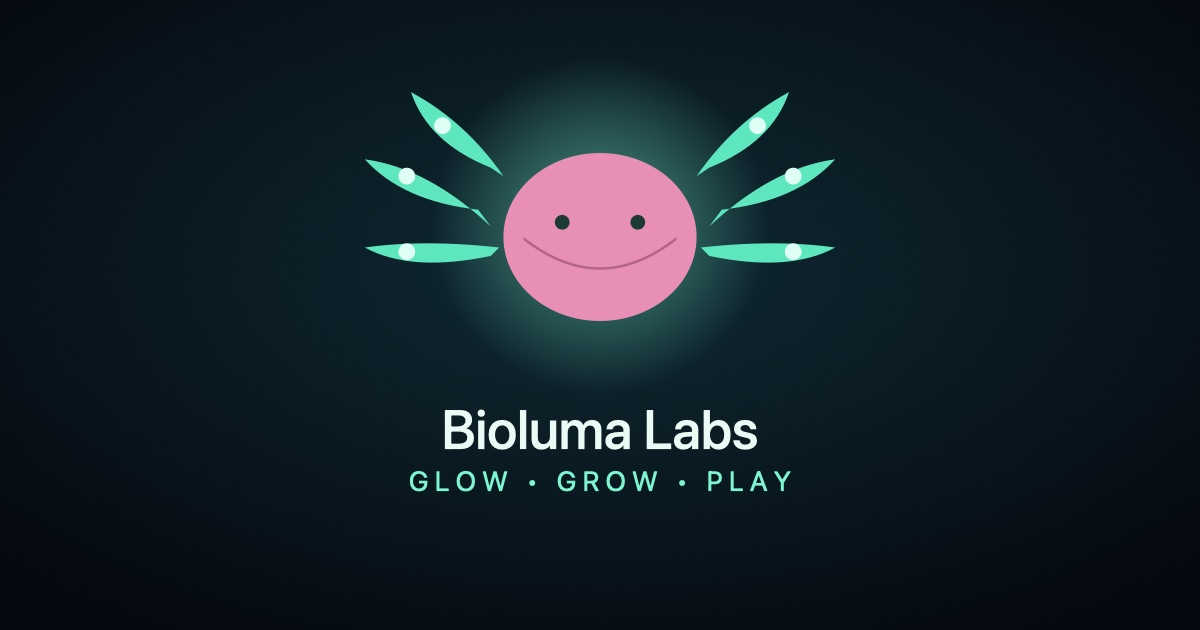
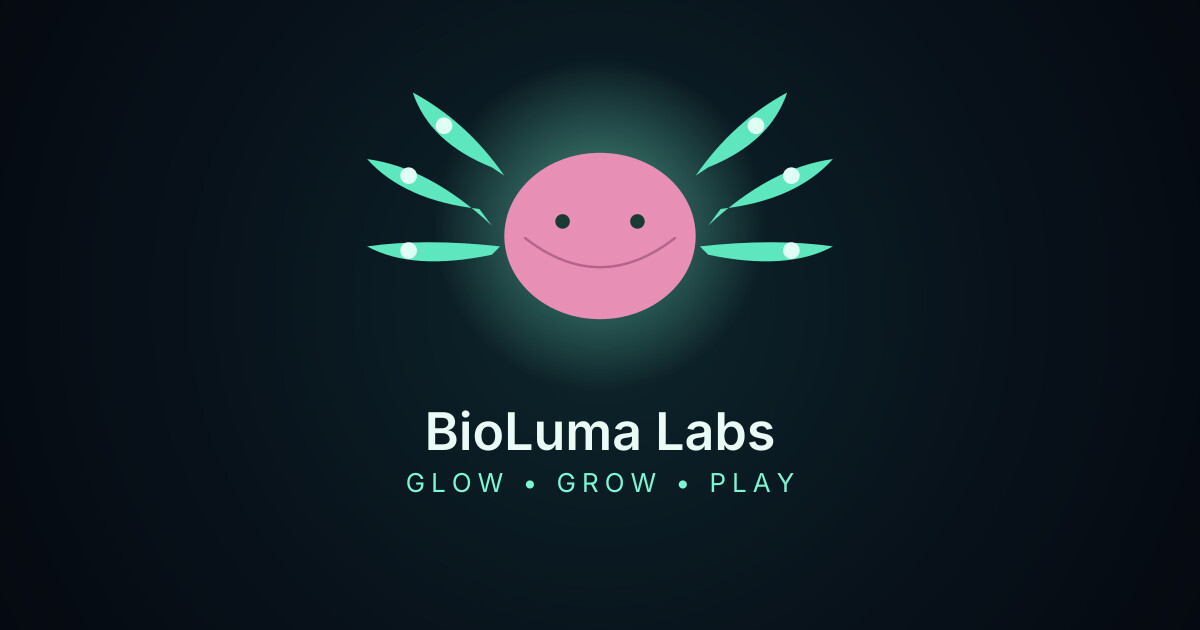
Rename studio to BioLuma Labs (#21)
Updates the site name, logo wordmark, favicon title, share image and
page copy. Game builds under public/play and public/axolotl-chase are
left unchanged to match the versions in Google Play review.

Claude-Session: https://claude.ai/code/session_01DQv2ezSMq7xk3UwiUMEpKP

diff --git a/src/consts.ts b/src/consts.ts
@@ -1,10 +1,10 @@
 // Global site data. Everything that names the studio or a URL lives here.
 
-export const SITE_TITLE = "Bioluma Labs";
+export const SITE_TITLE = "BioLuma Labs";
 export const SITE_DESCRIPTION =
 	"An independent game and app studio. Designed by kids. Engineered by adults.";
 export const SITE_URL = "https://biolumalabs.com";
-// Bioluma Labs is a trading name. The legal owner of the site, the domain, the games and the apps is the company.
+// BioLuma Labs is a trading name. The legal owner of the site, the domain, the games and the apps is the company.
 export const COMPANY = "Diamond Hands Ltd";
 export const COMPANY_DETAILS =
 	"Registered in England and Wales, company no. 16857970. Registered office: 20 Wenlock Road, London N1 7GU.";

diff --git a/src/styles/global.css b/src/styles/global.css
@@ -1,4 +1,4 @@
-/* Bioluma Labs — bioluminescent, dark only, system fonts, no JavaScript. */
+/* BioLuma Labs — bioluminescent, dark only, system fonts, no JavaScript. */
 
 :root {
 	--bg: #060a12;

diff --git a/README.md b/README.md
@@ -1,6 +1,6 @@
 # biolumalabs.com
 
-The Bioluma Labs studio site. Astro, prerendered to static HTML and served by Cloudflare Workers.
+The BioLuma Labs studio site. Astro, prerendered to static HTML and served by Cloudflare Workers.
 It has no client-side JavaScript, no web fonts and no third-party requests.
 
 | page | source |
@@ -21,4 +21,4 @@ npm run deploy    # wrangler deploy
 
 `public/og.jpg` is the 1200×630 share image (social sites don't render SVG).
 
-© 2026 Diamond Hands Ltd, trading as Bioluma Labs. All rights reserved.
+© 2026 Diamond Hands Ltd, trading as BioLuma Labs. All rights reserved.
